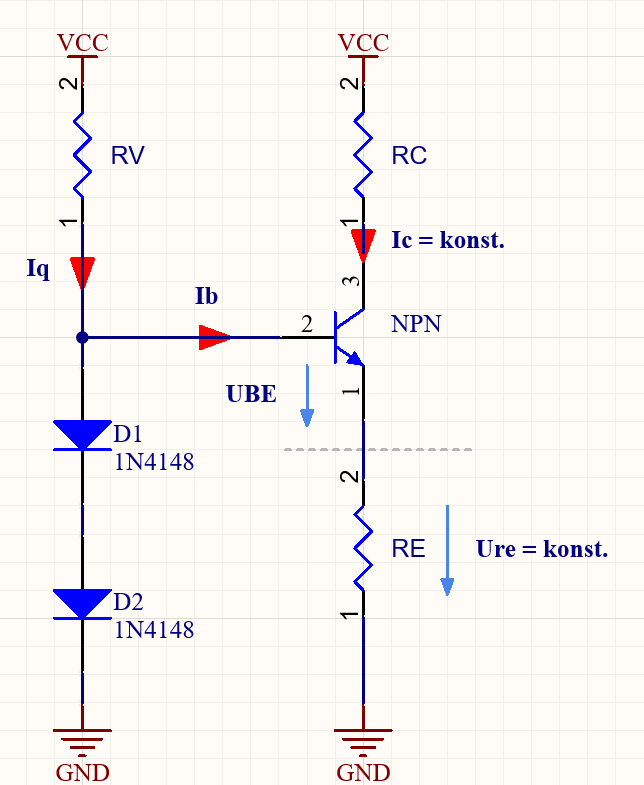
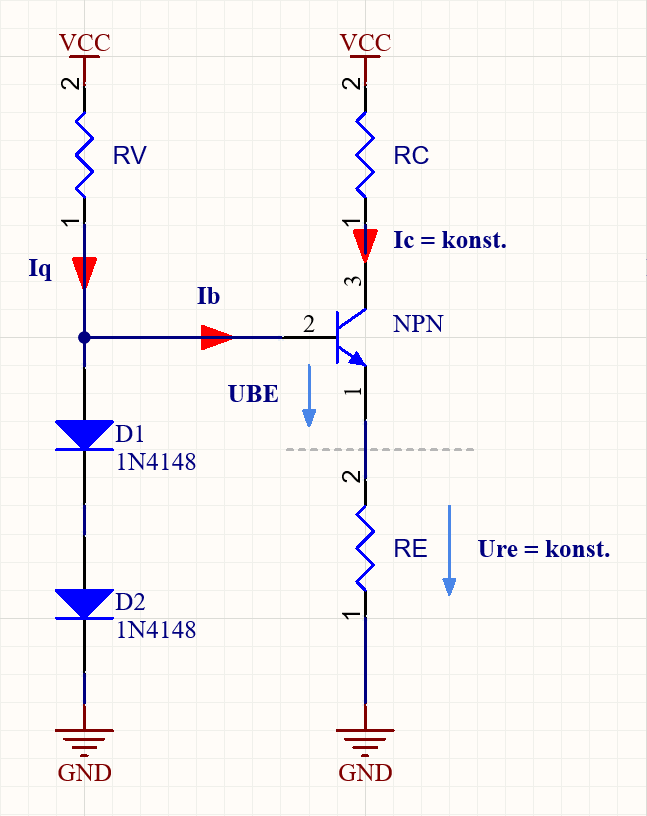
vault backup: 2023-09-22 20:54:48 from PC-Simon

diff --git a/Hardwareentwicklung/Halbleiter/Bipolartransistor.md b/Hardwareentwicklung/Halbleiter/Bipolartransistor.md
@@ -18,9 +18,9 @@ created: 24th March 2022
 
 # Bipolartransistor als Schalter
 
-| NPN                                | PNP                                |
-| ---------------------------------- | ---------------------------------- |
-| ![330](../assets/npn-schalter.png) | ![300](../assets/pnp-schalter.png) | 
+|                NPN                 |                PNP                 |
+|:----------------------------------:|:----------------------------------:|
+| ![330](assets/npn-schalter.png) | ![300](assets/pnp-schalter.png) |
 
 #
 # Bipolartransistor als Verstärker / Endstufe
@@ -33,7 +33,7 @@ created: 24th March 2022
 
 |         NPN         |         PNP         |
 |:-------------------:|:-------------------:|
-| ![](assets/NPN.png) | ![](assets/PNP.png) |
+| > ![500](assets/NPN.png) | > ![500](assets/PNP.png) |
 
 
 $$
